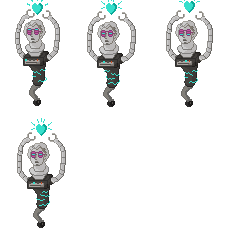
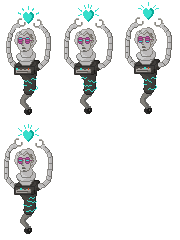
Arreglos de interfaz 2
Editados sprites y movidos los personajes

Changed region(s): [[0.0, 0.0, 0.3056, 0.9917], [0.3333, 0.0, 0.6389, 0.4958], [0.6944, 0.0, 0.9722, 0.4958]]

diff --git a/HolaSDL/PlayState.cpp b/HolaSDL/PlayState.cpp
@@ -30,8 +30,8 @@ void PlayState::newGame()
 
 	leftPoint = new Point(manager, pointSize, pointSize, Vector2D(leftNotesPos - pointSize / 2, 465));
 	rightPoint = new Point(manager, pointSize, pointSize, Vector2D(rightNotesPos - pointSize / 2, 465));
-	feedbackLeft = new Feedback(manager, pointSize, pointSize, Vector2D(leftNotesPos - pointSize / 2 - 100, 465));
-	feedbackRight = new Feedback(manager, pointSize, pointSize, Vector2D(rightNotesPos - pointSize / 2 + 100, 465));
+	feedbackLeft = new Feedback(manager, pointSize * 0.6, pointSize * 0.6, Vector2D(leftNotesPos - (pointSize * 0.6) - (pointSize * 0.6), 465 + pointSize / 2));
+	feedbackRight = new Feedback(manager, pointSize * 0.6, pointSize * 0.6, Vector2D(rightNotesPos + (pointSize * 0.6), 465 + pointSize / 2));
 	bg = new Background(manager, manager->getWindowWidth(), manager->getWindowHeight(), Vector2D(0, 0));
 	nivel = new Level(this, manager, level);
 	nivel->init();
@@ -44,8 +44,8 @@ void PlayState::newGame()
 	spriteBarra = new FondoBarra(manager, 1, 14, Vector2D(50, 35), (((manager->getWindowWidth() - 50) / nivel->songLength) / 70.5), Resources::Bluebar); //70.5 es la constante para ajustar la velocidad de la barra al tiempo de la cancion
 	indicador = new BarrasHUD(manager, 18, 22, Vector2D(41, 31), Vector2D((((manager->getWindowWidth() / nivel->songLength)) / 70.5), 0), spriteBarra);
 
-	perico = new Perico(manager, 240, 480, Vector2D(30, initialNoteHeight + 20), Resources::PericoIdle);
-	robot = new Perico(manager, 240, 480, Vector2D(manager->getWindowWidth() - 280, initialNoteHeight + 20), Resources::RobotIdle);
+	perico = new Perico(manager, 180, 360, Vector2D(90, initialNoteHeight + 39 + 100), Resources::PericoIdle);
+	robot = new Perico(manager, 180, 360, Vector2D(manager->getWindowWidth() - 250, initialNoteHeight + 100), Resources::RobotIdle);
 	leftNoteBar = new Squares(manager, noteBarWidth, 465 + 0.6 * pointSize, Vector2D(leftNotesPos + 1 - noteBarWidth / 2, leftNotesVector.getY()));
 	rightNoteBar = new Squares(manager, noteBarWidth, 465 + 0.6 * pointSize, Vector2D(rightNotesPos + 1 - noteBarWidth / 2, rightNotesVector.getY()));
 	

diff --git a/HolaSDL/Resources.cpp b/HolaSDL/Resources.cpp
@@ -35,8 +35,8 @@ vector<Resources::ImageInfo> Resources::images_ {
 	{Square, "resources/images/Recuadro.png", 32, 100, 4, 1, 4},
 	{FondoPrueba, "resources/images/FondoPrueba.png", 128, 100, 2, 1, 2},
 	{FondoPixel, "resources/images/FondoPixel.png", 128, 100, 2, 1, 2},
-	{RobotIdle, "resources/images/RobotVaporwave.png", 76, 120, 2, 1, 2},
-	{RobotDance, "resources/images/VaporwaveDance.png", 76, 120, 3, 2, 4}
+	{RobotIdle, "resources/images/RobotVaporwave.png", 60, 120, 2, 1, 2},
+	{RobotDance, "resources/images/VaporwaveDance.png", 60, 120, 3, 2, 4}
 };
 
 vector<Resources::TextMsgInfo> Resources::messages_ {
